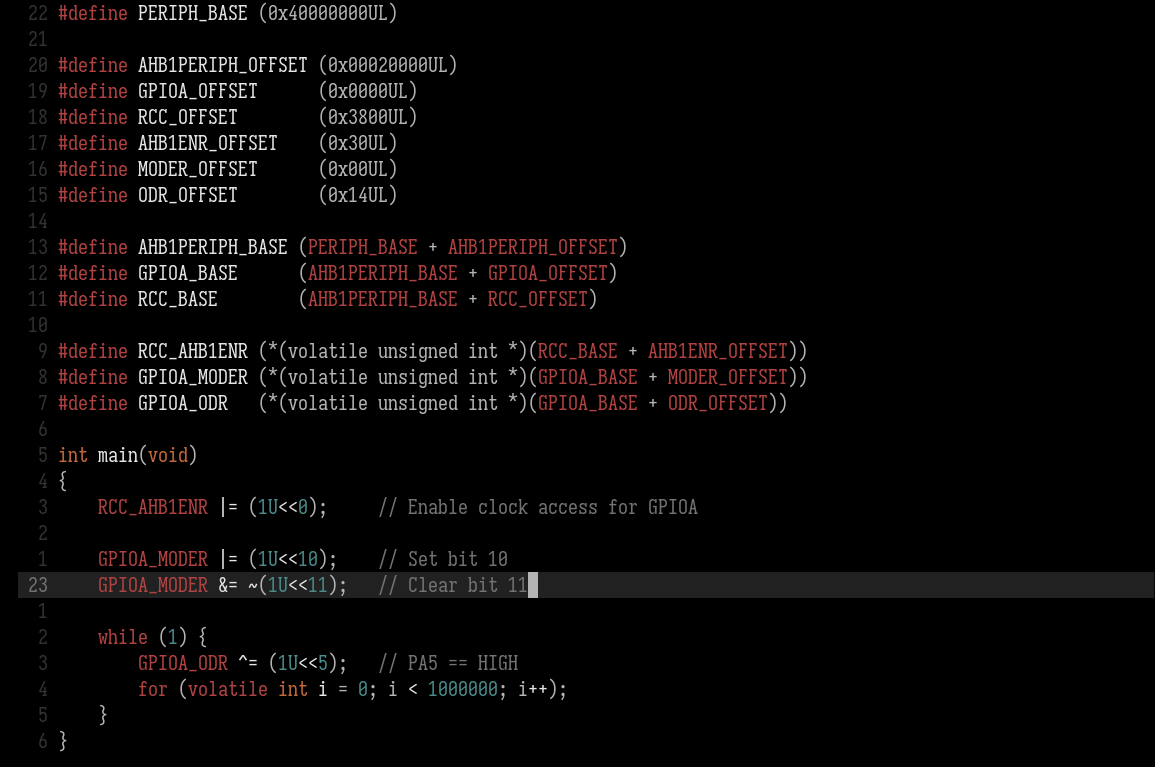
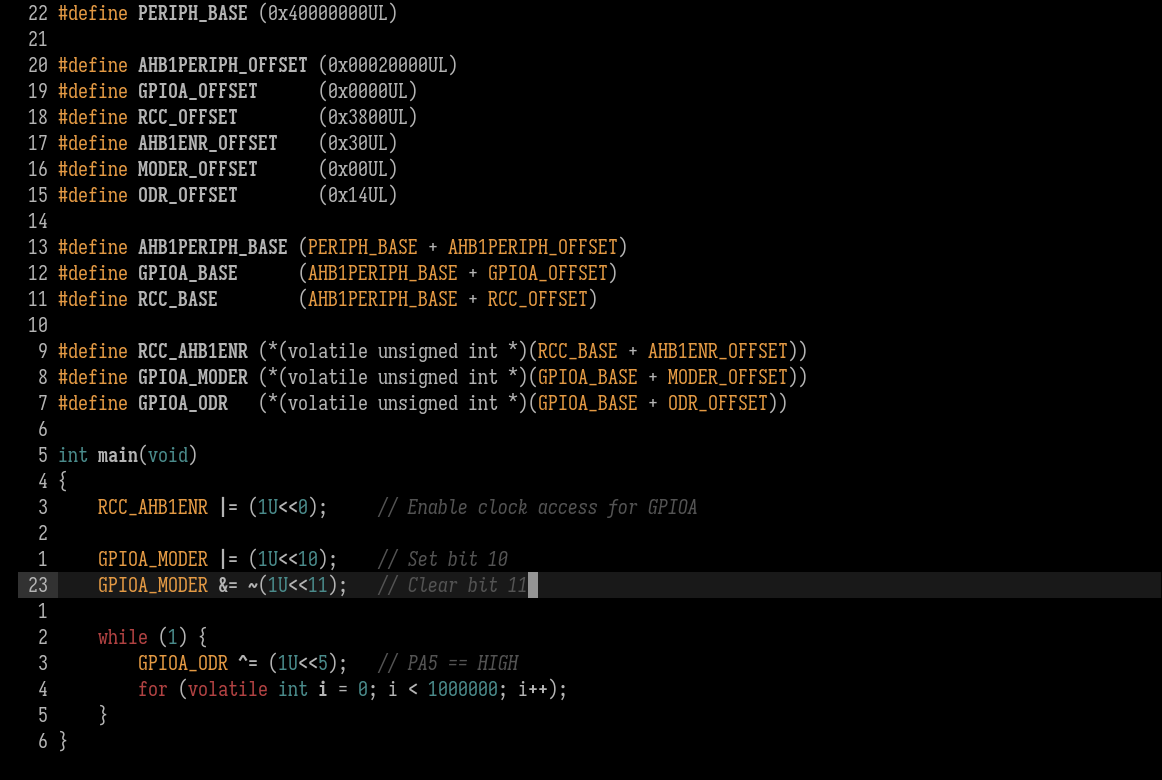
more consistency

Changed region(s): [[0.0, 0.2999, 1.0, 0.9896], [0.0312, 0.06, 0.4052, 0.2699], [0.0312, 0.0, 0.3429, 0.03]]

diff --git a/README.md b/README.md
@@ -2,15 +2,18 @@
 
 ![Ashen High-Contrast](./screenshot.png)
 
-[Ashen](https://github.com/ficd0/ashen.nvim) for Emacs, built around a pure
+*Screenshot shows the earlier Neovim-based styling.*
+
+[Ashen](https://github.com/ficd0/ashen/tree/main/emacs) for Emacs, built around a pure
 black (`#000000`) foundational background. A standalone theme with no
 dependencies, for Emacs 27.1 or newer.
 
-Ashen's foreground colors, syntax roles, and highlight surfaces are preserved.
+The official Emacs port's syntax roles, styling, and highlight surfaces are preserved.
 Editing buffers, inactive windows, fringes, and source blocks sit on black;
 selections, search results, completion menus, and mode lines retain their
-original contrasting backgrounds. Comments stay upright and functions retain
-normal weight, matching Ashen's default style presets.
+original contrasting backgrounds. Comments are italic, function definitions
+are bold, and types and builtins use muted teal, following the official Emacs
+port. Function calls retain normal weight.
 
 ## Installation
 
@@ -34,46 +37,51 @@ For exact colors, use graphical Emacs or a terminal configured for true color.
 Disable other enabled themes before loading if you want to avoid their faces
 showing through in modes they cover.
 
-## Highlight mapping
+## Face mapping
 
-The port follows the roles in Ashen's
-[default highlight map](https://github.com/ficd0/ashen.nvim/blob/main/lua/ashen/variants/default/theme.lua)
-and [palette](https://github.com/ficd0/ashen.nvim/blob/main/lua/ashen/variants/default/colors.lua).
-The foundational `background` changes from `#121212` to `#000000`;
-the named grayscale and accent colors keep their upstream values.
+Faces shared with the
+[official Emacs port](https://github.com/ficd0/ashen/blob/main/emacs/ashen-theme.el)
+follow its Emacs-specific decisions. The foundational `background` changes
+from `#121212` to `#000000`; fringes, ordinary line numbers, menus, and source
+blocks also use black. The named grayscale and accent colors retain their
+upstream values.
 
-| Neovim role | Emacs equivalent | Appearance |
+| Role | Emacs faces | Appearance |
 | --- | --- | --- |
-| `Normal` | `default` | `#b4b4b4` on black |
-| `Comment` | `font-lock-comment-face` | `#737373`, upright |
-| `String` | `font-lock-string-face`, docstrings | `#DF6464` |
-| `Function`, `@function.builtin` | function names/calls, builtins | `#e5e5e5`, normal weight |
-| `@keyword`, `PreProc` | keywords, preprocessor | `#B14242` |
-| `Constant`, `Type` | constants, types | `#C4693D` |
-| `@variable`, `@variable.member` | variables, properties | `#b4b4b4`, `#d5d5d5` |
-| `@number` | number face, where the major mode supplies one | `#4A8B8B` |
-| `@operator`, `@punctuation.bracket` | operators, brackets | `#D87C4A`, `#737373` |
-| `Visual` | `region` | `#323232` background, preserves syntax foregrounds |
-| `CursorLine` | `hl-line` | `#212121` background |
-| `MatchParen` | `show-paren-match` | `#535353` background |
-| `CurSearch` | `isearch` | black on `#D87C4A`, bold |
-| `Search` | `lazy-highlight`, `match` | black on `#949494`, bold |
-| `StatusLine` | `mode-line`, `header-line` | `#949494` on `#323232` |
-| `TabLine`, `TabLineSel` | tab bar / tab line | gray inactive tabs, black selected tabs |
-| `Pmenu`, `PmenuSel` | Company / Corfu menus, selected completion | `#323232` / `#535353` backgrounds |
-| `NoicePopup` | `tooltip` | `#b4b4b4` on `#191919` |
-| `DiffAdd`, `DiffDelete`, `DiffChange` | diff faces, corresponding Magit faces | gray additions, ember deletions, orange changes |
-| `DiagnosticUnderline*` | Flymake / Flycheck | colored dotted underlines, waves where dots are unsupported |
-| `@text.title`, `@text.literal` | Org headings, inline code | light gray, kindling red |
+| Editing area | `default` | `#b4b4b4` on black |
+| Comments | `font-lock-comment-face` | `#535353`, italic |
+| Strings and docstrings | string and documentation faces | `#DF6464` |
+| Function definitions / calls | function name / call faces | `#b4b4b4`, bold definitions, normal calls |
+| Builtins, constants, types, numbers | corresponding font-lock faces | `#4A8B8B` |
+| Keywords | `font-lock-keyword-face` | `#B14242` |
+| Operators and properties | corresponding font-lock faces | `#C4693D` |
+| Preprocessor and escapes | corresponding font-lock faces | `#E49A44` |
+| Selection | `region` | `#323232` background, preserves syntax foregrounds |
+| Line / general highlighting | `hl-line`, `highlight` | `#191919` background |
+| Matching parentheses | `show-paren-match` | `#151515` on `#737373` |
+| Search | `isearch`, `lazy-highlight` | original inverse-video orange highlights |
+| Mode line | active / inactive mode lines | `#b4b4b4` on `#212121` |
+| Tooltip | `tooltip` | gray on `#212121`, gray border |
+| Dired | directories / symlinks | `#D87C4A` / `#B14242` |
+| Org | headings / inline code | orange headings, `#C4693D` code |
+| Eglot | inlay hints | `#737373`, small and italic |
 
-Emacs font-lock categories do not always separate the same tokens as Neovim's
-Tree-sitter captures. Types use the core `Type` role; numbers use `@number`
-where available. The theme defines faces without changing major-mode syntax
-rules. Modes that do not distinguish numbers, booleans, or builtin constants
-continue to use their existing font-lock categories.
+Built-in Tree-sitter major modes use the font-lock faces. Optional
+`emacs-tree-sitter` faces follow the official port's separate capture mappings;
+the theme does not load or require either Tree-sitter package. Major modes
+retain their own syntax rules and decide which faces apply.
 
-Emacs-specific choices are kept small: inactive mode-line text is dimmed to
-`#737373`; document links retain clickable underlines; Magit reuses the diff
-and cursor-line surfaces. Org document roles use the nearest core text roles.
-ANSI colors follow Ashen's terminal palette, including its orange "green"
-and repeated bright colors (except bright black).
+Additional tab-bar, Company, Corfu, diff, Magit, diagnostic, and ANSI faces
+retain their mappings from
+[ashen.nvim](https://github.com/ficd0/ashen.nvim/blob/main/lua/ashen/variants/default/theme.lua)
+where the official Emacs port has no equivalent. In particular, additions
+stay gray, deletions ember red, and the ANSI "green" stays orange.
+
+Two small corrections preserve usability: function calls explicitly use normal
+weight so they do not inherit bold definitions, and selected completions and
+terminal menus use black text on the upstream light-gray selection surface.
+Org levels 4–8 continue the official orange heading pattern.
+
+## Validation
+
+Run `make check` to byte-compile the theme with warnings treated as errors.
